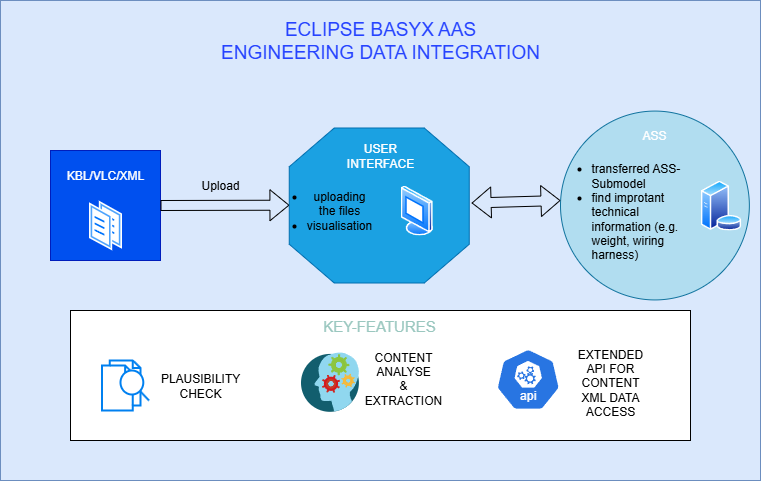
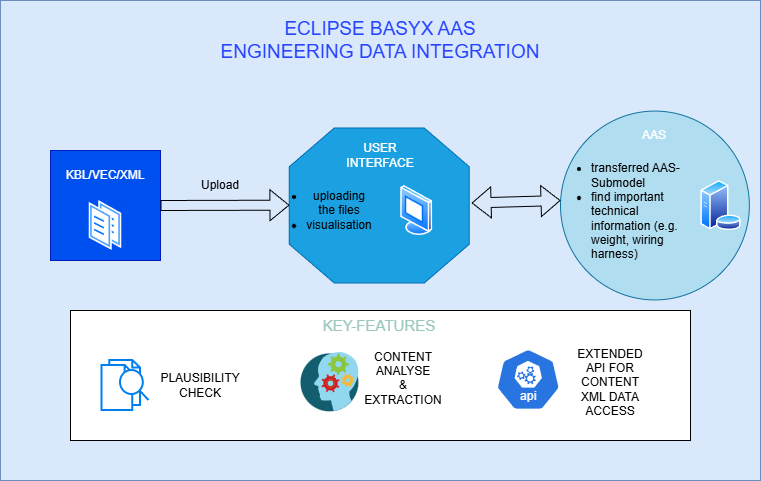
Paar fehler CRS geändert

diff --git a/PROJECT/CRS.md b/PROJECT/CRS.md
@@ -8,8 +8,8 @@
 |1.0|12.10.2025|Felix Bandl|first version|
 |1.1|13.10.2025|Felix Bandl|priority added|
 |1.2|31.10.2025|Felix Bandl|CRS adjusted after consultation with Mr. Rentschler|
-|1.3|08.11.2025|Felix Bandl|added images, prioritized use cases, and fixed bugs.|
-|1.4|14.11.2025|Felix Bandl|improved format|
+|1.3|08.11.2025|Felix Bandl|added images, prioritized use cases, and fixed bugs|
+|1.4|14.11.2025|Felix Bandl|improved format and a few bugs fixed|
 
 ## Table of contents
 1. [Scope](#1-scope)
@@ -32,7 +32,7 @@
         - 4.2.3 [NFR.03 Maintainability and Contribution to the Open-Source Project](#423-nfr03-maintainability-and-contribution-to-the-open-source-project)
         - 4.2.4 [NFR.04 Documentation](#424-nfr04-documentation)
         - 4.2.5 [NFR.05 Compatibility](#425-nfr05-compatibility)
-        - 4.1.6 [NFR.06 Error Handling](#426-nfr06-error-handling)
+        - 4.2.6 [NFR.06 Error Handling](#426-nfr06-error-handling)
         - 4.2.7 [NFR.07 Availability (Demo)](#427-nfr07-availability-demo)
      
 
@@ -103,7 +103,7 @@ The Use Cases are prioritized from 1 to 5 to indicate which requirements are mos
 | **Precondition** | A valid model file (e.g., KBL file) is available. The connection to the AAS generator (REST API) is active. |
 | **Postcondition on Success**| A new AAS has been successfully generated, in which all supported data selected by the user is mapped from the model file as submodel elements. The created AAS is stored on the AAS-Server. |
 | **Triggering Event** | The user starts the AAS Generation Wizard and selects a model file. |
-| **Involved roles** | User,  BaSyx-UI (XML viewer component), AAS-Server|
+| **Involved roles** | User,  BaSyx-UI, AAS-Server|
 | **System boundary** | BaSyx-UI, AAS-Server |
 | **Priority** | 4 | 
 
@@ -117,7 +117,7 @@ The Use Cases are prioritized from 1 to 5 to indicate which requirements are mos
 | **Precondition** | An AAS model was successfully generated by UC03 and is available on the AAS-Server. The requesting system knows the ID or path of the desired XML/AAS entry. |
 | **Postcondition on Success**| The backend interface automatically and accurately returns the requested specific XML/AAS information to the requesting system. |
 | **Triggering Event** | The external system/backend service sends an API request to the interface containing the desired query point (path/ID).|
-| **Involved roles** | User, AAS-Server, BaSyx-UI|
+| **Involved roles** | UsAPI Client, AAS-Server, BaSyx-UI|
 | **System boundary** | BaSyx-UI, AAS-Server |
 | **Priority** | 1 | 
 
